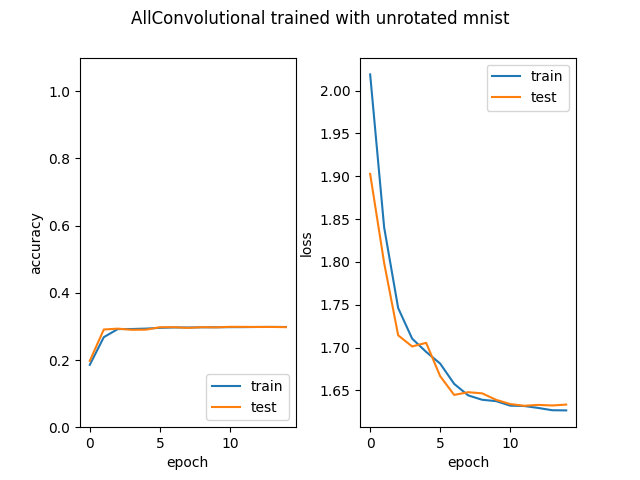
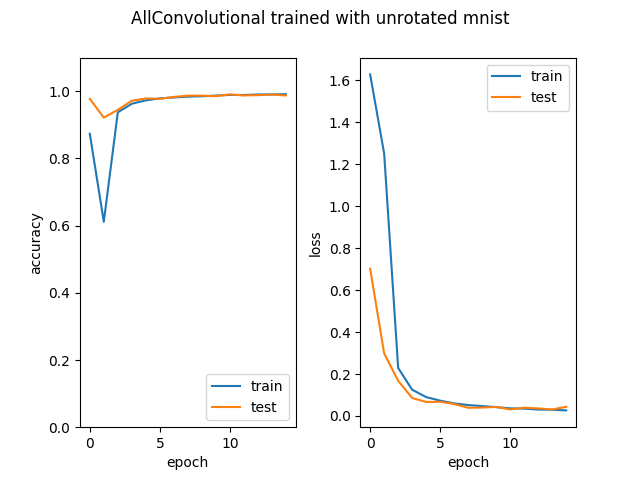
fixed bug in AllConvolutional

diff --git a/pytorch/model/all_conv.py b/pytorch/model/all_conv.py
@@ -2,6 +2,23 @@ import torch.nn as nn
 import torch.nn.functional as F
 from pytorch.model.util import SequentialWithIntermediates
 
+
+class ConvBN(nn.Module):
+    def __init__(self,in_filters,out_filters,kernel_size,stride=1):
+        super(ConvBN, self).__init__()
+        if kernel_size==0:
+            padding=0
+        else:
+            padding=1
+        self.model=nn.Sequential(
+            nn.Conv2d(in_filters, out_filters, kernel_size=kernel_size, padding=padding,stride=stride),
+            nn.BatchNorm2d(out_filters),
+        )
+
+    def forward(self,x):
+        return self.model.forward(x)
+
+
 class AllConvolutional(nn.Module):
     def __init__(self, input_shape, num_classes=10,filters=96,dropout=False):
         super(AllConvolutional, self).__init__()
@@ -9,14 +26,14 @@ class AllConvolutional(nn.Module):
         h,w,c=input_shape
         filters2=filters*2
         self.dropout=dropout
-        self.conv1 = nn.Conv2d(c, filters, 3, padding=1)
-        self.conv2 = nn.Conv2d(filters, filters, 3, padding=1)
-        self.conv3 = nn.Conv2d(filters, filters, 3, padding=1, stride=2)
-        self.conv4 = nn.Conv2d(filters, filters2, 3, padding=1)
-        self.conv5 = nn.Conv2d(filters2, filters2, 3, padding=1)
-        self.conv6 = nn.Conv2d(filters2, filters2, 3, padding=1, stride=2)
-        self.conv7 = nn.Conv2d(filters2, filters2, 3, padding=1)
-        self.conv8 = nn.Conv2d(filters2, filters2, 1)
+        self.conv1 = ConvBN(c, filters, 3)
+        self.conv2 = ConvBN(filters, filters, 3)
+        self.conv3 = ConvBN(filters, filters, 3,stride=2)
+        self.conv4 = ConvBN(filters, filters2, 3)
+        self.conv5 = ConvBN(filters2, filters2, 3)
+        self.conv6 = ConvBN(filters2, filters2, 3, stride=2)
+        self.conv7 = ConvBN(filters2, filters2, 3)
+        self.conv8 = ConvBN(filters2, filters2, 1)
         self.class_conv = nn.Conv2d(filters2, num_classes, 1)
 
         self.layers= [self.conv1, self.conv2, self.conv3, self.conv4,
@@ -29,17 +46,13 @@ class AllConvolutional(nn.Module):
     def forward_intermediates(self, x):
 
         intermediates=[]
-        dropout_probabilities=[.2,.5,.5]
-        layer=0
-        for i in range(3):
-            if self.dropout:
-                x = F.dropout(x, dropout_probabilities[i])
-            for j in range(3):
-                x=self.layers[layer](x)
+
+        for layer in self.layers[0:-1]:
+                x=layer(x)
                 intermediates.append(x)
                 x=F.relu(x)
                 intermediates.append(x)
-                layer+=1
+
         # x = F.dropout(x, .2)
         # conv1_out = F.relu(self.conv1(x))
         # conv2_out = F.relu(self.conv2(conv1_out))
@@ -88,6 +101,7 @@ class AllConvolutional(nn.Module):
         names+=["avgpool","logsoftmax"]
 
         return names
+
 
 
 class ConvBNAct(nn.Module):
